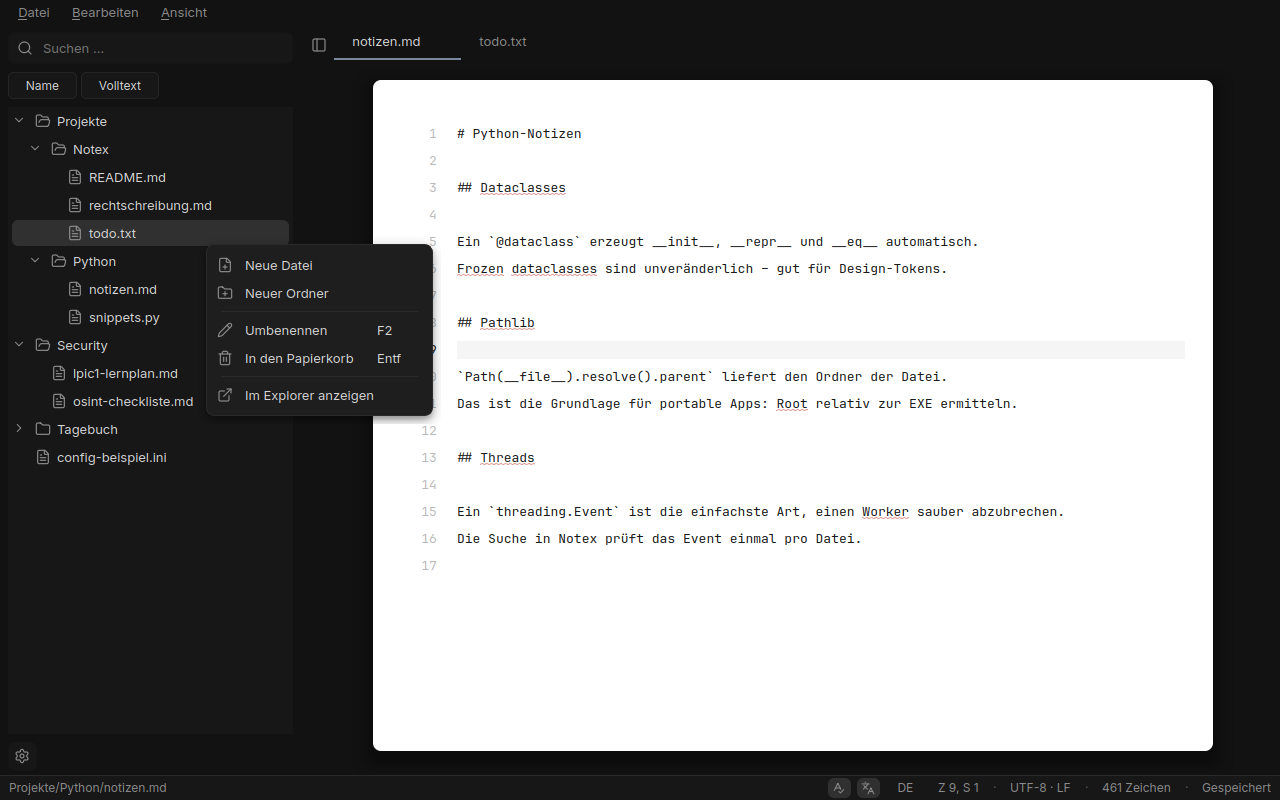
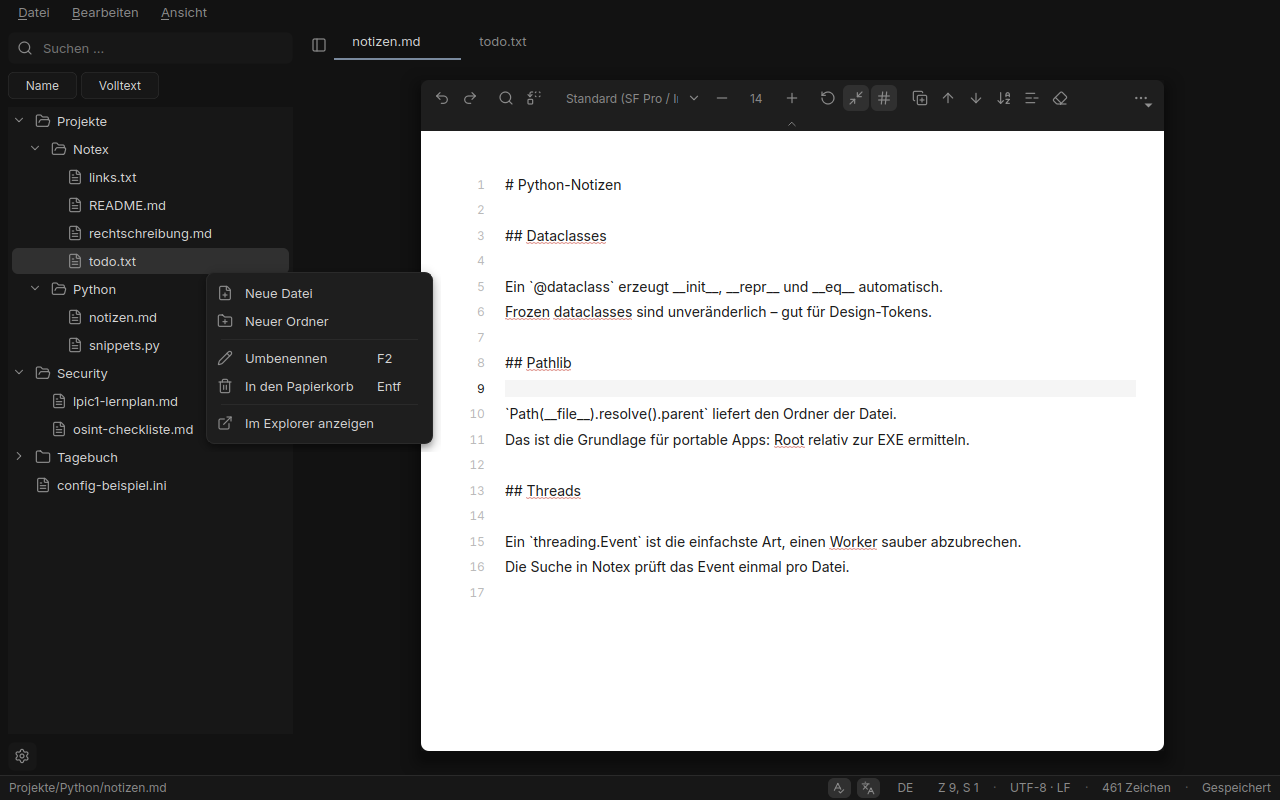
Abschluss: README (Toolbar, Schriften, Umbruch) und Screenshots
- README: Abschnitte Bearbeitungsleiste, Schriften (fonts/user/), Umbruch;
  Tastenkürzel ergänzt, Umbruch-Option entfernt
- tools/screenshot.py: Leiste mit Markdown-Gruppe, eingeklappt, schmales
  Fenster mit „…“-Überlauf, Datei mit langen URLs/Hashes/Pfaden
- docs/: 19 Screenshots

Claude-Session: https://claude.ai/code/session_01GLUSNnjoUSEA3uzyGFPUqk

Changed region(s): [[0.0, 0.0938, 0.9688, 0.9375]]

diff --git a/README.md b/README.md
@@ -14,6 +14,7 @@ keine Installation: `data/` daneben ist dein Notizbaum, `config.json` merkt sich
 | ![Kontextmenü](docs/06-context-menu.png) | ![Suchen und Ersetzen](docs/07-find-replace.png) | ![Toast](docs/08-toast.png) |
 
 Die Screenshots erzeugt `python tools/screenshot.py` automatisch (offscreen, mit Testdaten).
+Standardschrift ist Inter; mit SF Pro in `fonts/user/` sieht die Oberfläche entsprechend anders aus.
 
 ## Was es kann
 
@@ -21,7 +22,11 @@ Die Screenshots erzeugt `python tools/screenshot.py` automatisch (offscreen, mit
 - **Suche** (Ctrl+Shift+F): rekursiv, case-insensitive, nach Dateiname und/oder Volltext,
   läuft im Hintergrund-Thread, Klick auf einen Treffer springt in die Zeile
 - **Editor**: weißes Blatt auf dunklem Tisch, Zeilennummern, aktuelle Zeile hervorgehoben,
-  Suchen/Ersetzen (Ctrl+F / Ctrl+H), Zoom (Ctrl+Mausrad, Ctrl+Plus/Minus), Zeilenumbruch (Alt+Z)
+  Suchen/Ersetzen (Ctrl+F / Ctrl+H), Zoom (Ctrl+Mausrad, Ctrl+Plus/Minus)
+- **Bearbeitungsleiste** über dem Blatt (Ctrl+Shift+E): Verlauf, Suchen, Textschrift, Ansicht,
+  Zeilen- und Textwerkzeuge, Markdown-Toggles bei .md, Prüfung, Encoding/Zeilenende
+- **Kein horizontales Scrollen**: Zeilen brechen immer an der Blattbreite um, auch lange URLs,
+  Hashes und Pfade; Listen behalten beim Umbruch ihre Einrückung
 - **Dateien**: Encoding (UTF-8, UTF-8-BOM, cp1252) und Zeilenenden (CRLF/LF) bleiben beim
   Speichern erhalten; atomares Speichern, damit bei einem Absturz nie eine halbe Datei liegt
 - **Baum-Kontextmenü**: Neue Datei, Neuer Ordner, Umbenennen (F2), Papierkorb (Entf),
@@ -29,9 +34,60 @@ Die Screenshots erzeugt `python tools/screenshot.py` automatisch (offscreen, mit
 - **Watcher**: extern hinzugefügte Dateien tauchen im Baum auf; wird eine offene Datei
   extern geändert, fragt die App, ob sie neu laden soll
 - **Zustand** in `config.json`: Fenster, Seitenleiste, aufgeklappte Ordner, offene Tabs,
-  Zoom, Umbruch, Blatt-Modus, Such-Chips, Animationen
+  Zoom, Blatt-Modus, Bearbeitungsleiste, Zeilennummern, Such-Chips, Theme
 - **Design**: matt schwarz/grau, das Blatt weiß und zentriert (Alt+P schaltet auf volle Breite),
   ein einziger dezenter Akzent, kurze Animationen (abschaltbar unter Ansicht)
+
+## Bearbeitungsleiste
+
+Direkt über dem Blatt sitzt eine schmale Leiste in Blattbreite. Der kleine Chevron darunter
+(oder **Ctrl+Shift+E**) klappt sie ein und aus, der Zustand bleibt gespeichert. Die Gruppen:
+
+| Gruppe | Werkzeuge |
+|---|---|
+| Verlauf | Rückgängig, Wiederholen |
+| Suchen | Suchen (Ctrl+F), Ersetzen (Ctrl+H) |
+| Textschrift | Schriftart-Dropdown, Größe −/Feld/+ |
+| Ansicht | Zoom zurücksetzen (Ctrl+0), Blatt-Modus/volle Breite (Alt+P), Zeilennummern (Ctrl+Alt+N) |
+| Zeilen | Duplizieren (Ctrl+D), hoch/runter (Alt+↑/↓), sortieren (F9), Duplikate entfernen (Ctrl+Shift+D), Leerzeichen am Zeilenende entfernen |
+| Text | GROSS (Ctrl+Shift+U), klein (Ctrl+U), Wortanfänge groß (Ctrl+Alt+U), Datum/Uhrzeit (F5) |
+| Markdown (nur .md) | Fett (Ctrl+Alt+B), Kursiv (Ctrl+Alt+I), Überschrift (Ctrl+Alt+H), Liste (Ctrl+Alt+L), Checkbox (Ctrl+Alt+X), Code (Ctrl+Alt+C), Link (Ctrl+K) – jeweils als Toggle |
+| Prüfung | Rechtschreibung (F7), Grammatik (Shift+F7) |
+| Datei | Encoding (UTF-8 / UTF-8 BOM / cp1252) und Zeilenende (LF / CRLF) anzeigen und umstellen |
+
+Passt nicht alles nebeneinander, wandern die hinteren Gruppen in das „…“-Menü rechts. Die
+Tastenkürzel gelten auch bei eingeklappter Leiste. Wichtig: Textdateien haben keine
+Formatierung. Schriftart und Größe sind Ansichts-Einstellungen für alle Dateien und ändern
+nichts am Inhalt.
+
+| Leiste mit Markdown-Gruppe | Eingeklappt | Schmales Fenster mit „…“ |
+|---|---|---|
+| ![Toolbar](docs/16-toolbar-markdown.png) | ![Eingeklappt](docs/17-toolbar-collapsed.png) | ![Überlauf](docs/18-toolbar-overflow.png) |
+
+## Schriften
+
+Die Oberfläche benutzt eine feste Schrift, die nicht einstellbar ist. Reihenfolge:
+**SF Pro Text / SF Pro Display** (falls vorhanden) → **Inter** (gebündelt, OFL) → Segoe UI
+Variable → Segoe UI. SF Pro wird aus Lizenzgründen nie mitgeliefert. Willst du sie (oder andere
+Schriften) nutzen, lege die Dateien nach `fonts/user/` neben die App: Sie werden beim Start
+automatisch geladen und erscheinen im Schrift-Dropdown. Der Ordner steht in `.gitignore` und
+wird vom Build nicht mitkopiert.
+
+Einstellbar ist nur die Schrift des Textinhalts im Blatt (Einstellungen → Schrift oder
+Toolbar), standardmäßig dieselbe proportionale Schrift wie die Oberfläche. Für Code-artige
+Endungen (.py, .json, .csv, .log, .ini) ist JetBrains Mono voreingestellt; das lässt sich je
+Endung ändern.
+
+## Umbruch
+
+Zeilen brechen immer an der Blattbreite um, notfalls mitten im Wort (URLs, Hashes, Pfade,
+Base64). Es gibt keine horizontale Scrollbar. Die maximale Textbreite im Blatt-Modus ist ein
+Maximum: Wird das Fenster schmaler oder die Seitenleiste geöffnet, schrumpft das Blatt mit,
+die Innenabstände gehen bis auf 16 px zurück, und die Lese-Position bleibt beim Reflow erhalten.
+Umgebrochene Folgezeilen eingerückter Zeilen und Listenpunkte übernehmen die Einrückung,
+Zeilennummern stehen nur an der ersten Zeile.
+
+![Lange Zeilen](docs/19-wrap-long-lines.png)
 
 ## Themes anpassen
 
@@ -45,7 +101,8 @@ Alles wirkt sofort als Vorschau; **Abbrechen** stellt den Zustand von vorher wie
   Hintergrund unter 4.5:1 (WCAG) fällt.
 - **Blatt**: Varianten Weiß, Papier, Sepia, Dunkel; Blatt-, Text-, Zeilennummern- und
   Auswahlfarbe, Schatten und Stärke, Innenabstand, Blatt-Modus und maximale Textbreite.
-- **Schrift**: UI- und Editor-Schrift (gebündelte plus installierte), Größen, Zeilenhöhe.
+- **Schrift**: Textschrift des Blatts (Standard, gebündelte, eigene und installierte), Größen,
+  Zeilenhöhe, Schrift je Dateiendung.
 
 Eigene Themes speicherst du mit **Speichern als …**; sie liegen als JSON in `themes/` neben
 der App und wandern mit dem Ordner mit. Duplizieren, Umbenennen, Löschen, Import und Export
@@ -121,7 +178,8 @@ Alternativ per Docker: `docker run -d -p 8081:8010 erikvl87/languagetool` (dann 
 | Ctrl+Shift+F | Suche in Dateien (Esc leert sie) |
 | Ctrl+F / Ctrl+H | Suchen / Ersetzen in der aktuellen Datei |
 | Ctrl+Plus / Ctrl+Minus / Ctrl+0 | Zoom |
-| Alt+Z | Zeilenumbruch |
+| Ctrl+Shift+E | Bearbeitungsleiste ein-/ausklappen |
+| Ctrl+Alt+N | Zeilennummern |
 | Alt+P | Blatt zentrieren / volle Breite |
 | Ctrl+, | Einstellungen |
 | F7 / Shift+F7 | Rechtschreibung / Grammatik umschalten |
